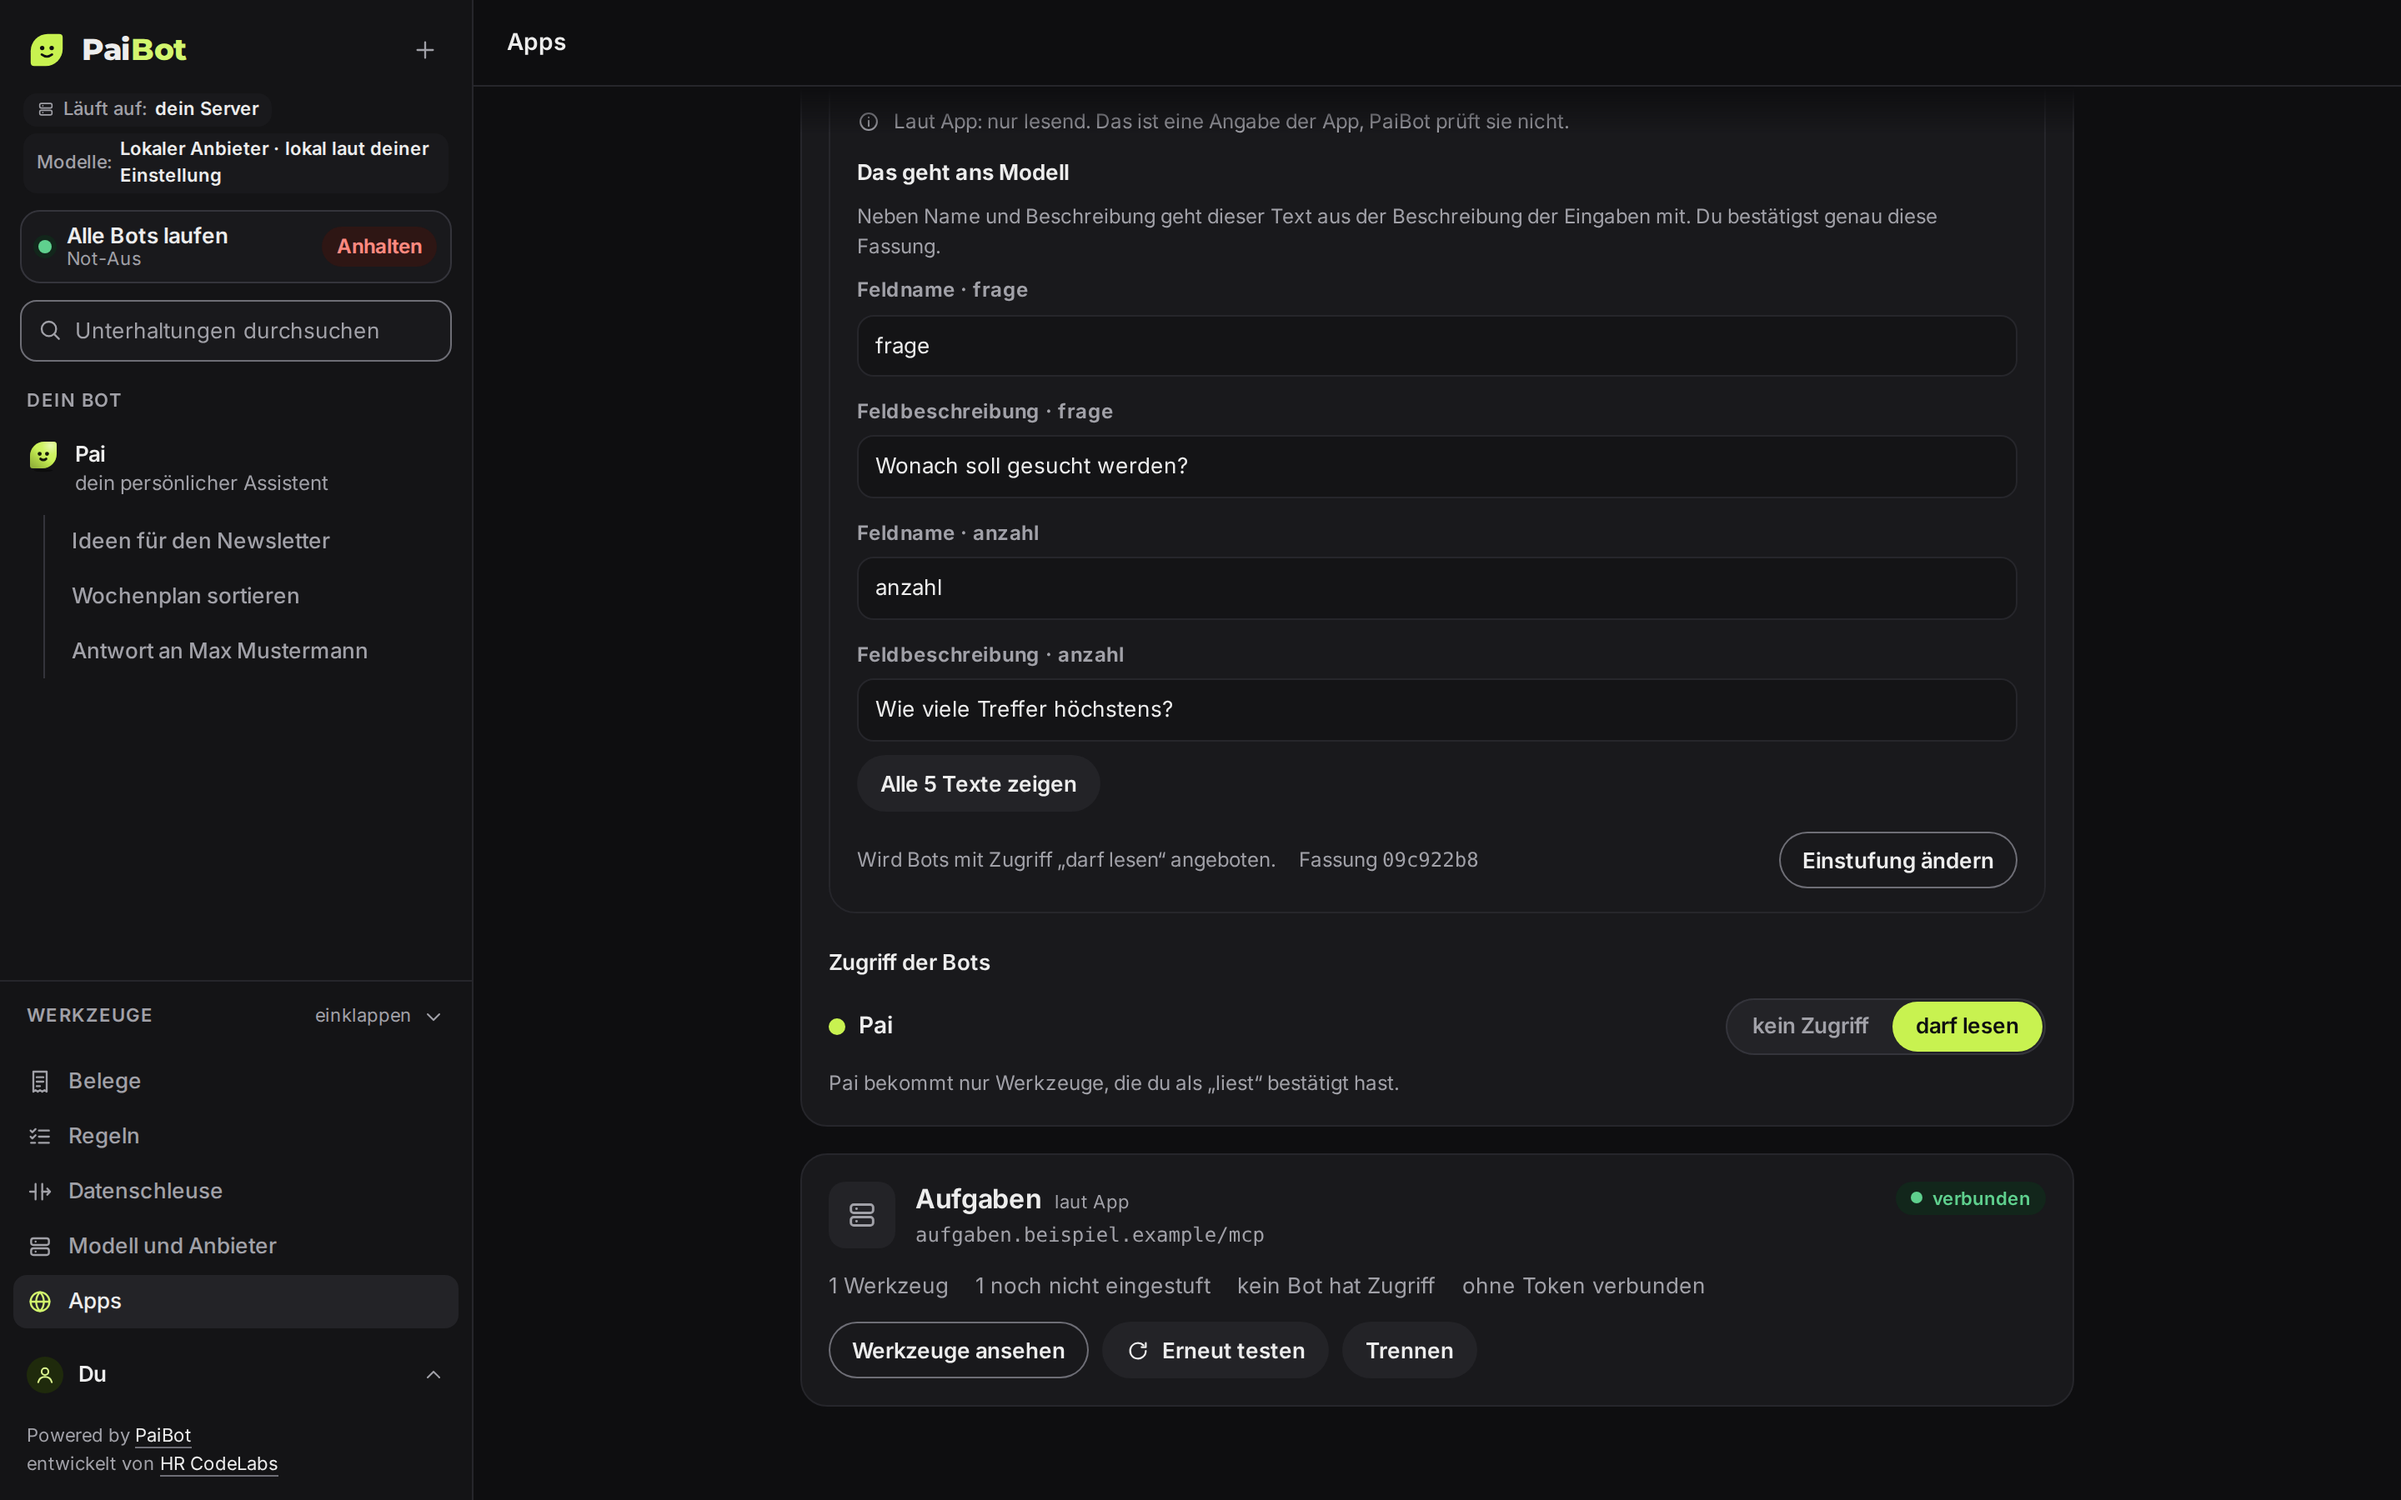
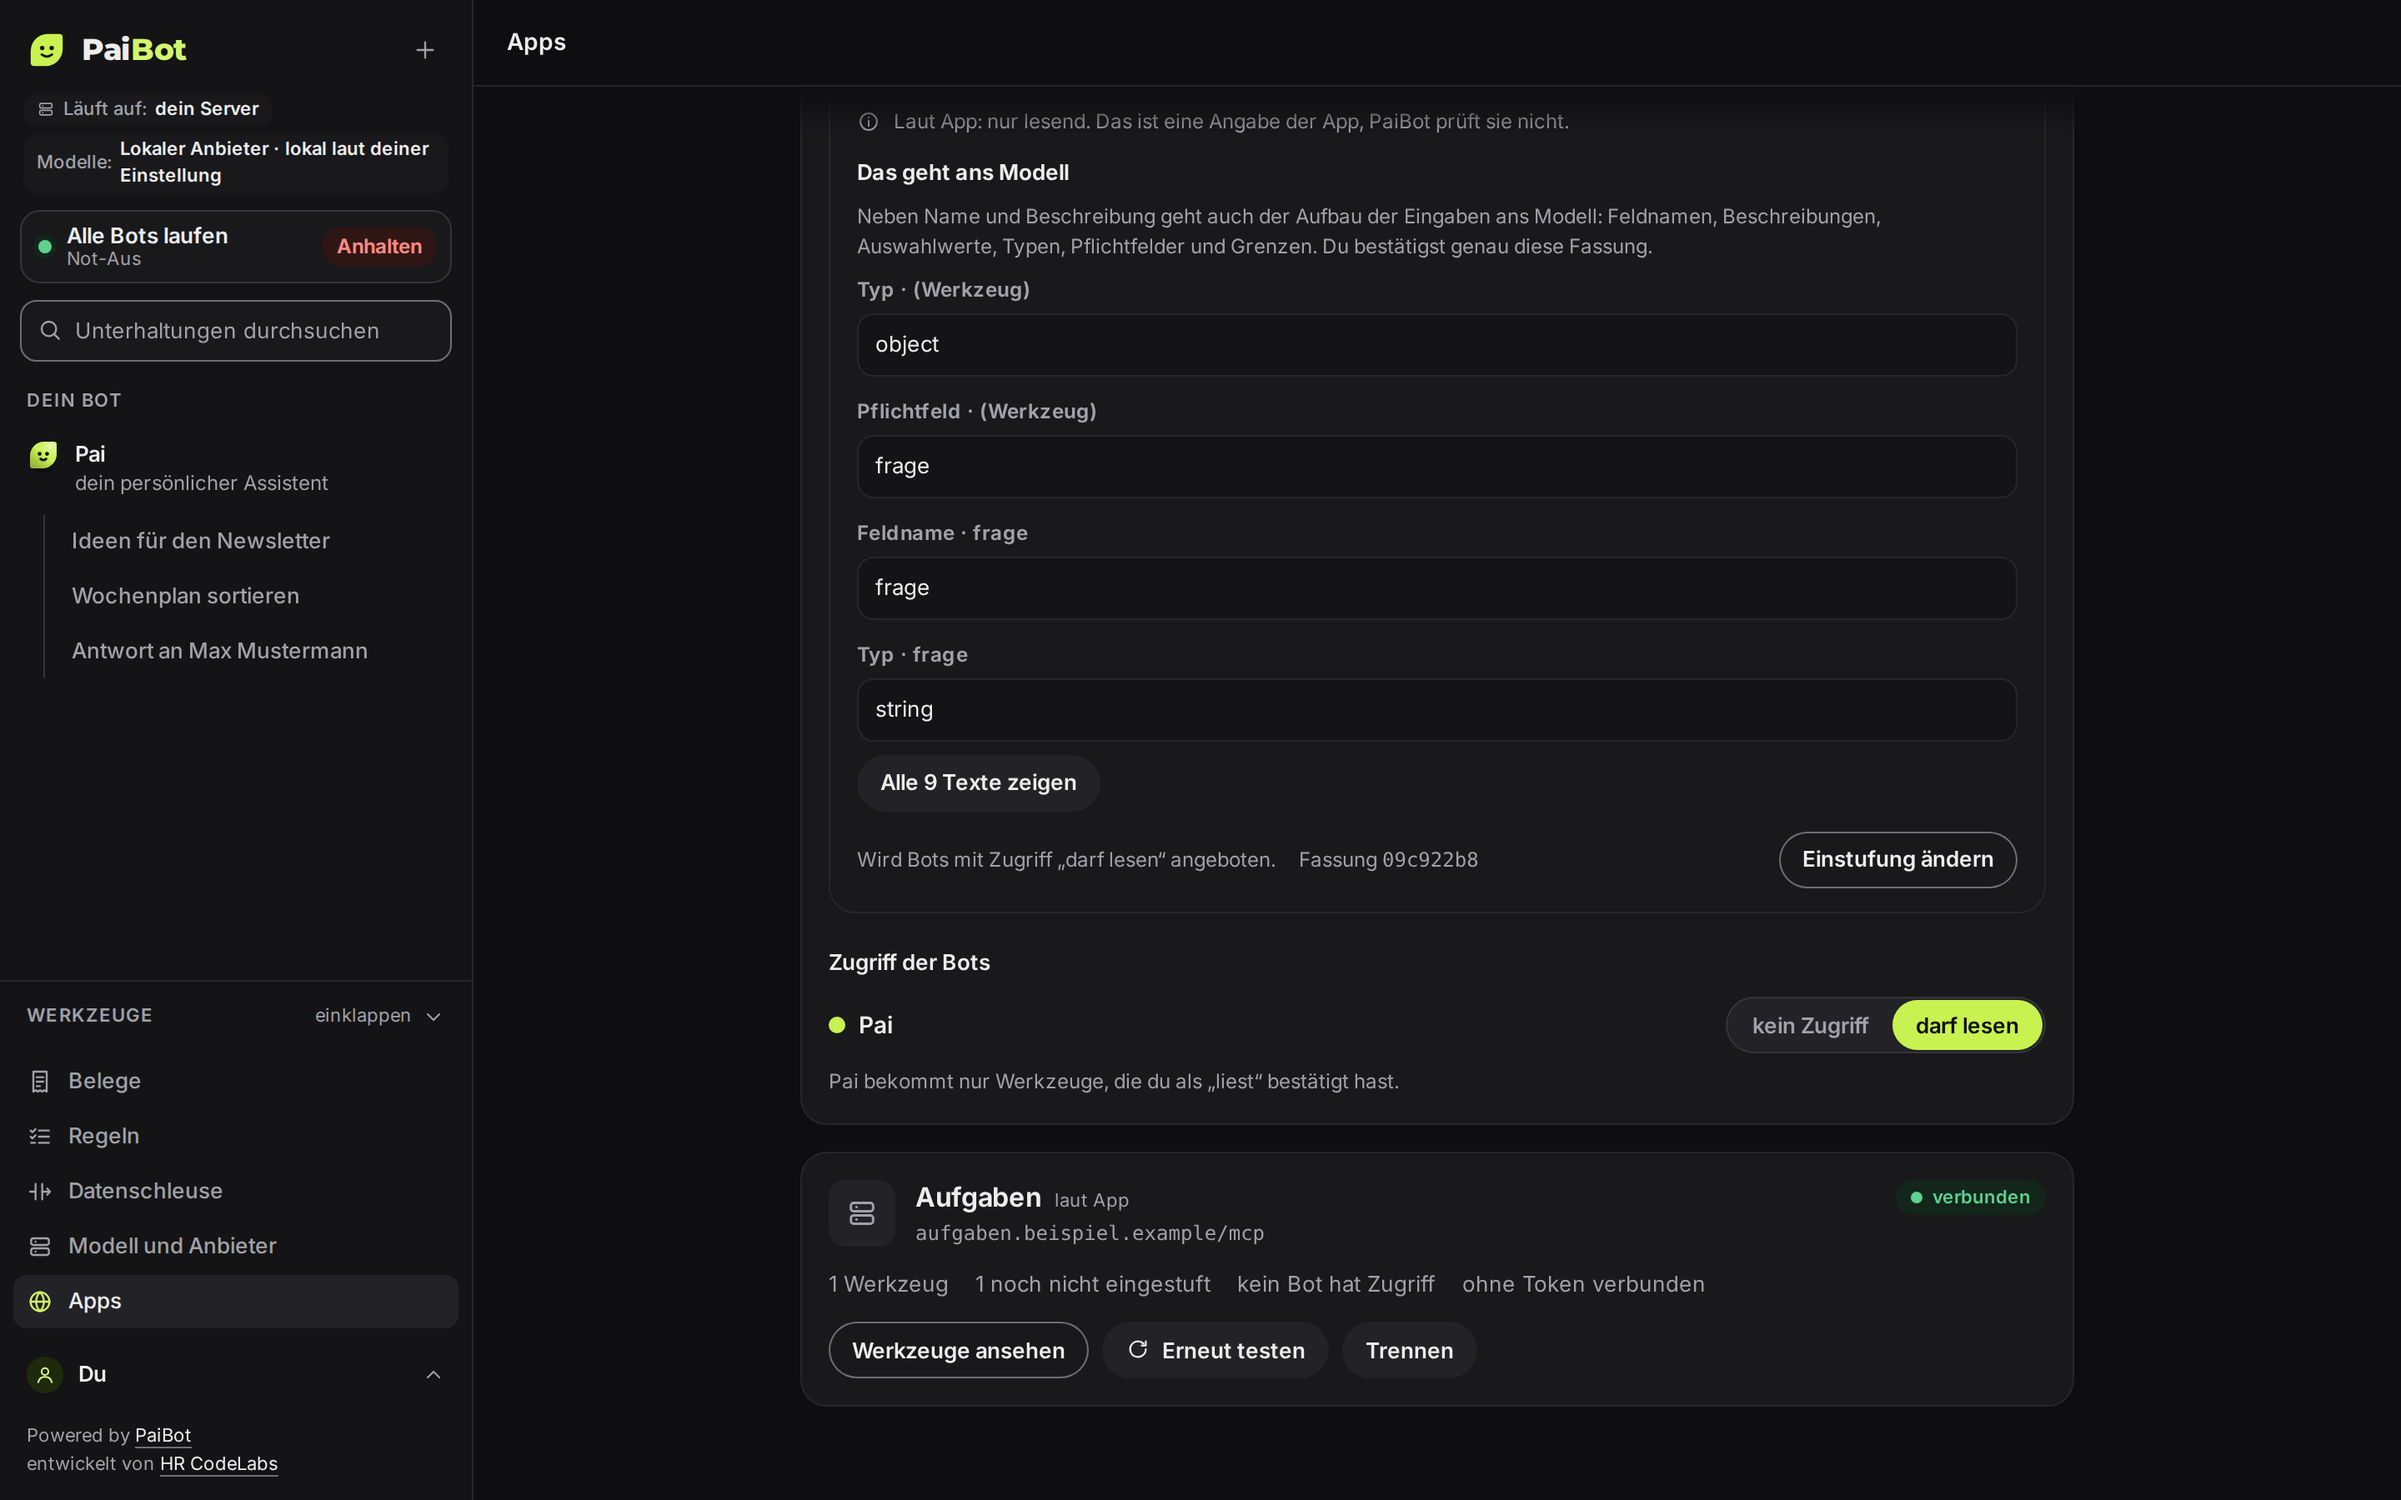
Doku: Bild zu „Neu verbinden“, Bilder der Seite „Apps“ neu, Hinweis zum Schema (#74)

diff --git a/packages/shared/src/i18n/de.ts b/packages/shared/src/i18n/de.ts
@@ -2371,7 +2371,7 @@ export const de = {
   "apps.werkzeug.feld.hinweise": "Angaben der App zum Verhalten",
   "apps.schema.titel": "Das geht ans Modell",
   "apps.schema.hinweis":
-    "Neben Name und Beschreibung geht dieser Text aus der Beschreibung der Eingaben mit. Du bestätigst genau diese Fassung.",
+    "Neben Name und Beschreibung geht auch der Aufbau der Eingaben ans Modell: Feldnamen, Beschreibungen, Auswahlwerte, Typen, Pflichtfelder und Grenzen. Du bestätigst genau diese Fassung.",
   "apps.schema.alle": "Alle {anzahl} Texte zeigen",
   "apps.schema.weniger": "Weniger zeigen",
   "apps.schema.art.feldname": "Feldname",

diff --git a/docs/funktion-apps.md b/docs/funktion-apps.md
@@ -34,7 +34,7 @@ Du willst, dass dein Bot im Chat etwas nachschlagen kann, das in einer anderen A
 6. Klick bei einer App auf **Werkzeuge ansehen**. Du siehst jedes Werkzeug mit dem Text, der ans Modell gehen würde, und darunter den **Zugriff der Bots**. Ein neues Werkzeug gilt als „schreibt“, bis du es einstufst. Die Angabe „laut App: nur lesend“ ist nur eine Auskunft der App und ändert nichts.
 
    ![Eine aufgeklappte App: Werkzeuge mit Beschreibung und „laut App“-Hinweis, darunter der Zugriff der Bots](assets/screenshots/apps-werkzeuge.png)
-7. Klick bei einem Werkzeug auf **Einstufen**. Dort steht der volle Text, den das Modell sähe (Beschreibung, Feldnamen, Beschreibungen der Felder und – unter „(Werkzeug)“ – die Beschreibung des ganzen Eingabe-Schemas, Auswahlwerte, Vorgaben, Beispiele). Wähle **Liest nur**, **Schreibt** oder **Gesperrt** und klick auf **Bestätigen**. Mit „Liest nur“ sagst du, dass das Werkzeug nichts verändert; das entscheidest du, nicht die App.
+7. Klick bei einem Werkzeug auf **Einstufen**. Dort steht der volle Text, den das Modell sähe (Beschreibung, Feldnamen, Beschreibungen der Felder und – unter „(Werkzeug)“ – die Beschreibung des ganzen Eingabe-Schemas, Auswahlwerte, Vorgaben, Beispiele, dazu Typen, Pflichtfelder, Zahlen- und Längengrenzen und ob weitere Felder erlaubt sind). Wähle **Liest nur**, **Schreibt** oder **Gesperrt** und klick auf **Bestätigen**. Mit „Liest nur“ sagst du, dass das Werkzeug nichts verändert; das entscheidest du, nicht die App.
 
    ![Ein Werkzeug wird eingestuft: voller Text, gewählt „Liest nur“, Hinweis vor dem Bestätigen](assets/screenshots/apps-einstufen.png)
 8. Nach dem Bestätigen gilt die Einstufung für genau die Fassung, die du gesehen hast. Ein als „liest“ eingestuftes Werkzeug wird angeboten; alle anderen nicht.
@@ -48,6 +48,8 @@ Du willst, dass dein Bot im Chat etwas nachschlagen kann, das in einer anderen A
 
     ![Rückfrage „App trennen?“ mit dem Namen der App und den Knöpfen „Abbrechen“ und „Trennen“](assets/screenshots/apps-trennen.png)
 12. **Neu verbinden:** Bei einer getrennten App klickst du unter „Getrennte Apps“ auf **Neu verbinden**. PaiBot verbindet sich nur mit der gespeicherten Adresse. Hatte die App einen Token, trägst du einen neuen ein (der alte wurde beim Trennen gelöscht). Danach sind alle Werkzeuge wieder „neu“ (sie gelten als „schreibt“), und kein Bot hat Zugriff, bis du es wieder erlaubst; die Einstufungen der früheren Verbindung gelten nicht mehr. Willst du eine andere Adresse, verbindest du eine neue App.
+
+    ![Eine getrennte App unter „Getrennte Apps“ mit dem Formular „Neu verbinden“: die gespeicherte Adresse als Text und das Feld „Neuer Token“](assets/screenshots/apps-neu-verbinden.png)
 
 ## So sieht es aus
 
